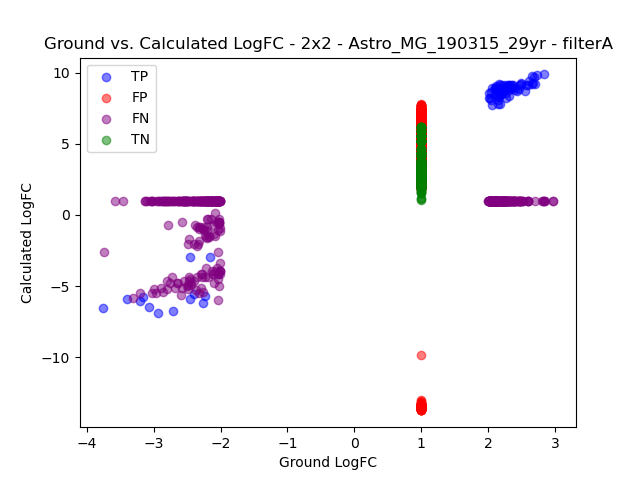
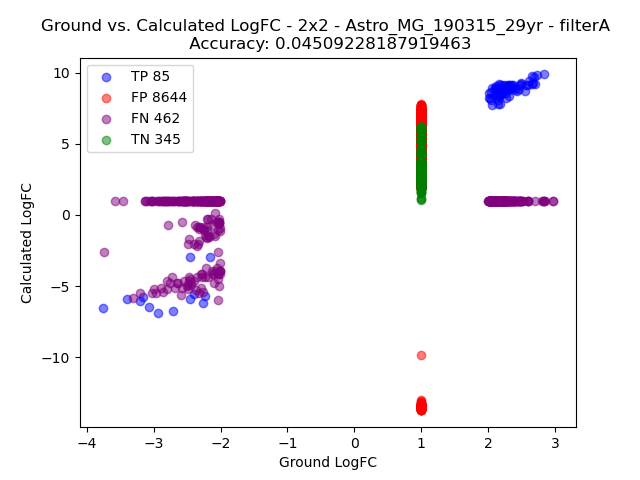
plots

Changed region(s): [[0.0625, 0.0312, 0.8438, 0.3125], [0.875, 0.0312, 0.9688, 0.125]]

diff --git a/experiments/2023-07-25/ground_vs_calculated_LFC.py b/experiments/2023-07-25/ground_vs_calculated_LFC.py
@@ -71,10 +71,10 @@ def create_plots(batch, filter_type):
         plt.scatter(result_df[result_df["accuracy"]=="FP"]["LogFC_ground_truth"], result_df[result_df["accuracy"]=="FP"]["logFC"], alpha=0.5, c="red")
         plt.scatter(result_df[result_df["accuracy"]=="FN"]["LogFC_ground_truth"], result_df[result_df["accuracy"]=="FN"]["logFC"], alpha=0.5, c="purple")
         plt.scatter(result_df[result_df["accuracy"]=="TN"]["LogFC_ground_truth"], result_df[result_df["accuracy"]=="TN"]["logFC"], alpha=0.5, c="green")
-        plt.legend(["TP", "FP", "FN", "TN"])
+        plt.legend([f"TP {TP}", f"FP {FP}", f"FN {FN}", f"TN {TN}"])
         plt.xlabel("Ground LogFC")
         plt.ylabel("Calculated LogFC")
-        plt.title(f"Ground vs. Calculated LogFC - {e}x{e} - {batch} - {filter_type}")
+        plt.title(f"Ground vs. Calculated LogFC - {e}x{e} - {batch} - {filter_type} \n Accuracy: {accuracy}")
         plt.savefig(f"{e}x{e}_LFC_{batch}_{filter_type}_plot.png")
         plt.close()
 
